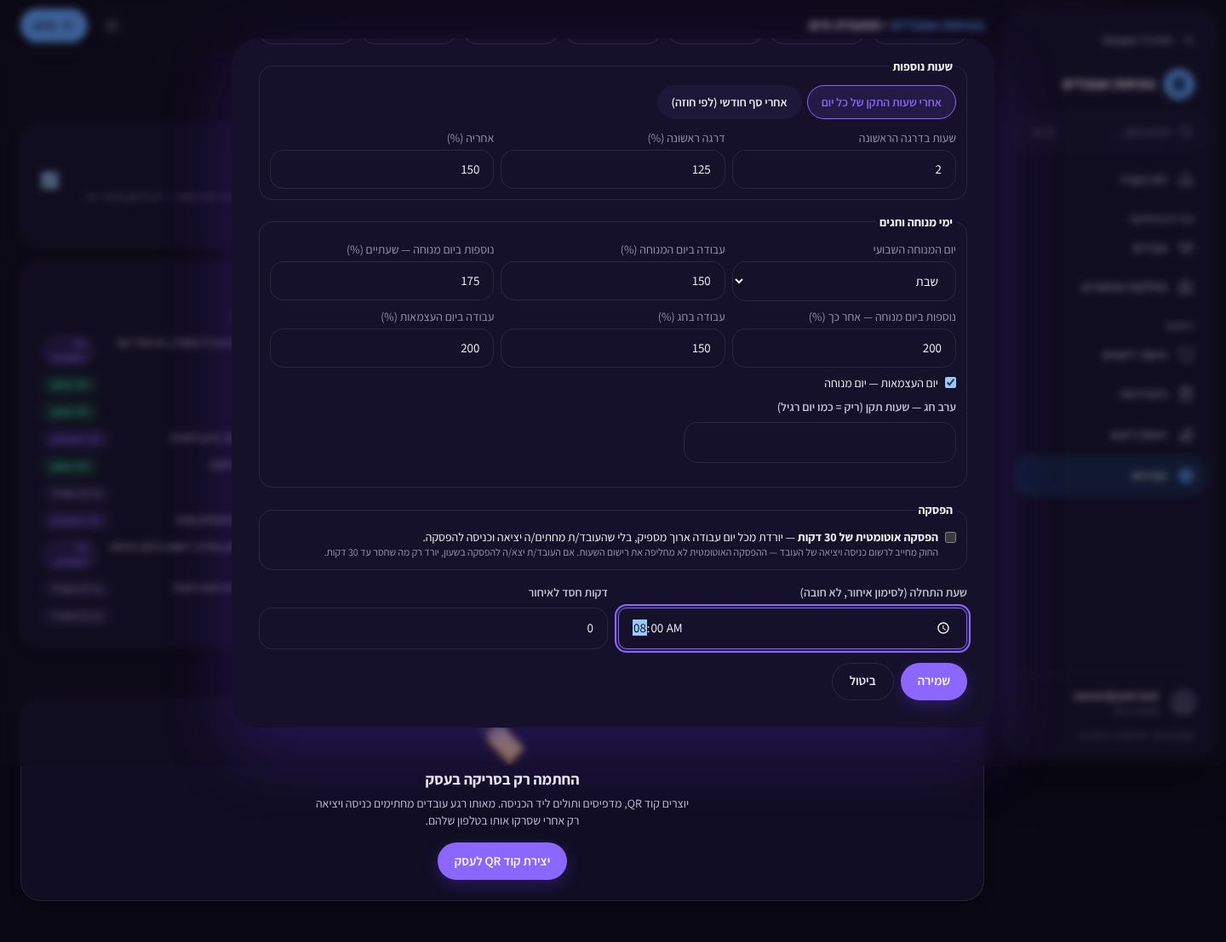
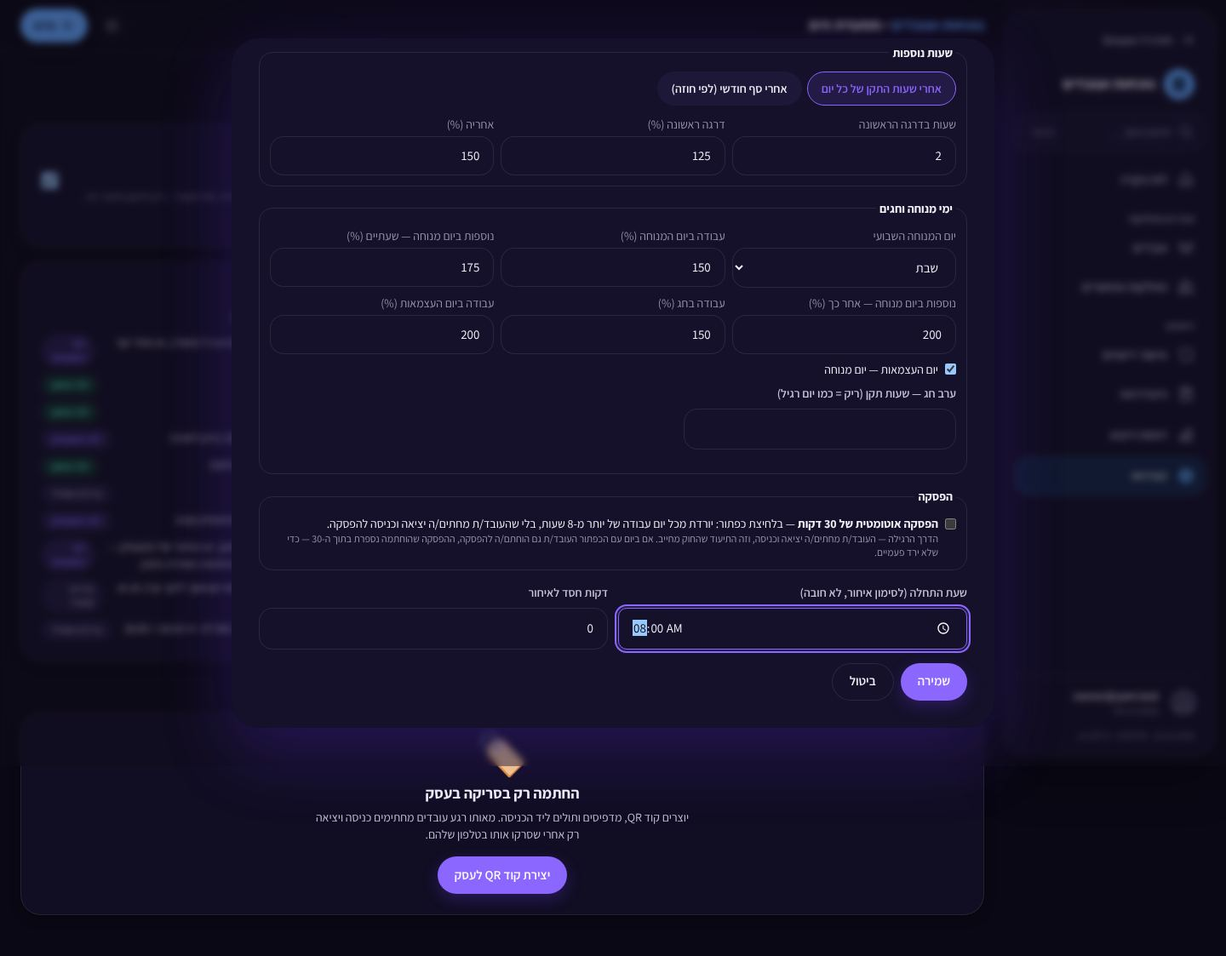
Attendance: exact to the minute, the break button over 8 hours, an aid to the accountant
The owner's answers (23.10.2026):
- Exact to the minute, never rounded: a shift = its clock-out minute less its clock-in
  minute, as the screen shows them (07:58 → 16:03 = 8:05). Files carry H:MM, not decimal
  hours (a decimal hour rounds).
- Breaks: the employee clocks out and in (the record the law requires); or the employer's
  button — 30 minutes off a work day of more than 8 hours. A break the employee also
  clocked counts towards the 30, so nothing is taken off twice.
- A Friday that runs into the eve of a festival or Shabbat stays as it is (the shift is the
  day it started on).
- Every report says it is an aid: the accountant and the employer decide the pay.

Claude-Session: https://claude.ai/code/session_018rYV2Wy84r19GCG9ZHaUyt

diff --git a/dream-promotion/src/features/attendance/exports.ts b/dream-promotion/src/features/attendance/exports.ts
@@ -1,5 +1,5 @@
 import JSZip from 'jszip';
-import { ABSENCE_LABEL, DAY_NAMES, DAY_TYPE_LABEL, METHOD_LABEL, STATUS_LABEL, hm, hoursDec, pctColumns, type AbsenceKind, type DayRow, type MonthReport } from './hours-engine';
+import { ABSENCE_LABEL, DAY_NAMES, DAY_TYPE_LABEL, METHOD_LABEL, STATUS_LABEL, hm, pctColumns, type AbsenceKind, type DayRow, type MonthReport } from './hours-engine';
 
 /**
  * The attendance files (tests/attendance-exports.test.ts): an employee's month as Excel and as PDF (the same rows as the screen —
@@ -16,6 +16,8 @@ const ways = (d: DayRow, side: 'in' | 'out') =>
 const overtime = (d: DayRow) => Object.entries(d.pct).filter(([p]) => +p !== 100).reduce((a, [, m]) => a + m, 0);
 const statusOf = (d: DayRow) => (d.absence ? `${ABSENCE_LABEL[d.absence.kind]}${d.absence.minutes ? ` ${hm(d.absence.minutes)}` : ''}` : STATUS_LABEL[d.status]);
 
+/** what every file says (the owner of the system, 23.10.2026): the system records and arranges; the accountant and the employer decide the pay */
+export const AID_NOTE = 'הדוח מסכם את השעות כפי שנרשמו, לפי הגדרות המסלול של המעסיק — מדויק לדקה, בלי עיגול. החישוב בתלוש — של רואה החשבון והמעסיק.';
 export const DRAFT_NOTE = 'שעות נוספות — טיוטה: המעסיק עוד לא אישר את הגדרות מסלול השעות.';
 type Person = { employee: ExportEmployee; report: MonthReport };
 const pctLabel = (p: number, draft: boolean) => (p === 100 ? 'רגילות' : `${p}%${draft ? ' (טיוטה)' : ''}`);
@@ -37,18 +39,19 @@ export function monthPdfBody(r: MonthReport, e: ExportEmployee, businessName: st
     `${e.name}${e.code ? ` · מספר עובד ${e.code}` : ''}${e.department ? ` · ${e.department}` : ''}`,
     pctColumns([r]).map((p) => `${p}%: ${hm(t.pct[p] ?? 0)}`).join(' · '),
     !r.confirmed ? DRAFT_NOTE : '',
+    AID_NOTE,
   ].filter(Boolean).join(' — ');
   return { title: `דוח נוכחות חודשי — ${e.name}`, subtitle: `${businessName ? `${businessName} · ` : ''}${monthLabel(r.month)}`, columns, rows, total, note };
 }
 
-/** the month for Excel: every column of the reference, hours as numbers (decimal hours) so Excel can add them up */
+/** the month for Excel: every column of the reference; hours as H:MM — exact to the minute (a decimal hour would round) */
 export function monthSheet(r: MonthReport, e: ExportEmployee): (string | number)[][] {
   const cols = pctColumns([r]);
   const head = ['תאריך', 'יום', 'סוג יום', 'שעות תקן', 'כניסה', 'דרך כניסה', 'יציאה', 'דרך יציאה', 'סה״כ יומי', 'מצטבר',
     ...cols.map((p) => pctLabel(p, !r.confirmed)), 'סטטוס'];
   const rows = r.days.map((d) => [
-    dmy(d.date), DAY_NAMES[d.weekday], d.holiday || DAY_TYPE_LABEL[d.type], hoursDec(d.standard), times(d, 'in'), ways(d, 'in'), times(d, 'out'), ways(d, 'out'),
-    hoursDec(d.paid), hoursDec(d.cumulative), ...cols.map((p) => hoursDec(d.pct[p] ?? 0)), statusOf(d),
+    dmy(d.date), DAY_NAMES[d.weekday], d.holiday || DAY_TYPE_LABEL[d.type], hm(d.standard), times(d, 'in'), ways(d, 'in'), times(d, 'out'), ways(d, 'out'),
+    hm(d.paid), hm(d.cumulative), ...cols.map((p) => hm(d.pct[p] ?? 0)), statusOf(d),
   ]);
   const t = r.totals;
   return [
@@ -56,8 +59,10 @@ export function monthSheet(r: MonthReport, e: ExportEmployee): (string | number)
     [],
     head,
     ...rows,
-    ['סה״כ', '', `${t.workDays} ימים`, hoursDec(t.standard), '', '', '', '', hoursDec(t.paid), '', ...cols.map((p) => hoursDec(t.pct[p] ?? 0)), ''],
-    ...(r.confirmed ? [] : [[], [DRAFT_NOTE]]),
+    ['סה״כ', '', `${t.workDays} ימים`, hm(t.standard), '', '', '', '', hm(t.paid), '', ...cols.map((p) => hm(t.pct[p] ?? 0)), ''],
+    [],
+    ...(r.confirmed ? [] : [[DRAFT_NOTE]]),
+    [AID_NOTE],
   ];
 }
 
@@ -68,7 +73,7 @@ export function payrollHeader(cols: number[]) {
     ...ABSENCE_ORDER.map((k) => `ימי ${ABSENCE_LABEL[k]}`), ...ABSENCE_ORDER.map((k) => `שעות ${ABSENCE_LABEL[k]}`), 'ימים חסרים'];
 }
 
-/** CSV (UTF-8 with BOM, so Excel shows Hebrew); a number is a plain number with a point */
+/** CSV (UTF-8 with BOM, so Excel shows Hebrew); hours as H:MM (exact), counts as plain numbers */
 export function csv(rows: (string | number)[][]) {
   const cell = (v: string | number) => (typeof v === 'number' ? String(v) : /[",\r\n]/.test(v) || /^[=+\-@]/.test(v) ? `"${(/^[=+\-@]/.test(v) ? `'${v}` : v).replace(/"/g, '""')}"` : v);
   return '\uFEFF' + rows.map((r) => r.map(cell).join(',')).join('\r\n') + '\r\n';
@@ -82,8 +87,8 @@ export function payrollCsv(list: Person[]): string | null {
   if (unconfirmed(list).length) return null;
   const cols = pctColumns(list.map((x) => x.report));
   const rows = list.map(({ employee: e, report: { totals: t } }) => [
-    e.code, e.name, e.idNumber ?? '', t.workDays, hoursDec(t.pct[100] ?? 0), ...cols.filter((p) => p !== 100).map((p) => hoursDec(t.pct[p] ?? 0)), hoursDec(t.restMinutes),
-    ...ABSENCE_ORDER.map((k) => t.absenceDays[k]), ...ABSENCE_ORDER.map((k) => hoursDec(t.absenceMinutes[k])), t.missingDays,
+    e.code, e.name, e.idNumber ?? '', t.workDays, hm(t.pct[100] ?? 0), ...cols.filter((p) => p !== 100).map((p) => hm(t.pct[p] ?? 0)), hm(t.restMinutes),
+    ...ABSENCE_ORDER.map((k) => t.absenceDays[k]), ...ABSENCE_ORDER.map((k) => hm(t.absenceMinutes[k])), t.missingDays,
   ]);
   return csv([payrollHeader(cols), ...rows]);
 }
@@ -113,7 +118,7 @@ export function payrollPdfBody(list: Person[], month: string, businessName: stri
     const k = ABSENCE_ORDER.filter((x) => t.absenceDays[x] || t.absenceMinutes[x]).map((x) => `${ABSENCE_LABEL[x]} ${t.absenceDays[x]}${t.absenceMinutes[x] ? ` + ${hm(t.absenceMinutes[x])}` : ''}`);
     return k.length ? `${e.name}: ${k.join(', ')}` : '';
   }).filter(Boolean)].join(' ');
-  return { title: `דוח שכר — ${monthLabel(month)}`, subtitle: businessName, columns, rows, total, note: note === 'היעדרויות לפי סוג:' ? '' : note };
+  return { title: `דוח שכר — ${monthLabel(month)}`, subtitle: businessName, columns, rows, total, note: [note === 'היעדרויות לפי סוג:' ? '' : note, AID_NOTE].filter(Boolean).join(' — ') };
 }
 
 /** the month of all employees, for the screen and Excel (it carries the draft note while any rules wait) */
@@ -126,10 +131,12 @@ export function summarySheet(list: Person[], month: string): (string | number)[]
     ['מספר עובד', 'שם', 'מחלקה', 'ימי עבודה', 'סה״כ שעות', 'תקן', ...cols.map((p) => pctLabel(p, false)), 'ימים חסרים', 'יציאות חסרות',
       ...ABSENCE_ORDER.map((k) => `ימי ${ABSENCE_LABEL[k]}`)],
     ...list.map(({ employee: e, report: { totals: t } }) => [
-      e.code, e.name, e.department, t.workDays, hoursDec(t.paid), hoursDec(t.standard), ...cols.map((p) => hoursDec(t.pct[p] ?? 0)), t.missingDays, t.openShifts,
+      e.code, e.name, e.department, t.workDays, hm(t.paid), hm(t.standard), ...cols.map((p) => hm(t.pct[p] ?? 0)), t.missingDays, t.openShifts,
       ...ABSENCE_ORDER.map((k) => t.absenceDays[k]),
     ]),
-    ...(draft ? [[], [`${DRAFT_NOTE} (${unconfirmed(list).join(', ')})`]] : []),
+    [],
+    ...(draft ? [[`${DRAFT_NOTE} (${unconfirmed(list).join(', ')})`]] : []),
+    [AID_NOTE],
   ];
 }
 

diff --git a/dream-promotion/tests/attendance-hours.test.ts b/dream-promotion/tests/attendance-hours.test.ts
@@ -183,12 +183,17 @@ test('attendance: absences — whole days by kind, hours of one day', () => {
   assert.equal(h.totals.absenceMinutes.other, 120); assert.equal(day(h, '2026-09-08').status, 'ok');
 });
 
-test('attendance: the day\'s minutes are rounded once — the month is the sum of the days, "מצטבר" ends on it', () => {
-  // three shifts of 20 minutes 30 seconds: 61.5 minutes → 62 (not 3 × 21 = 63, not 3 × 20 = 60)
+test('attendance: exact to the minute — clock-out minute less clock-in minute, as the screen shows them; never rounded', () => {
   const at = (h: number, m: number, s = 0) => new Date(Date.parse(israelToIso('2026-09-08', '00:00')) + ((h * 60 + m) * 60 + s) * 1000).toISOString();
+  // 07:58:40 → 16:03:10 is shown 07:58 → 16:03 = 8:05 — and counted 8:05 (not 8:04:30 rounded either way)
+  const one = monthReport({ month: '2026-09', entries: [{ id: 'x', clockIn: at(7, 58, 40), clockOut: at(16, 3, 10) }], track: FIVE, now: NOW });
+  assert.equal(day(one, '2026-09-08').worked, 485);
+  assert.deepEqual([day(one, '2026-09-08').shifts[0].inTime, day(one, '2026-09-08').shifts[0].outTime], ['07:58', '16:03']);
+  // three shifts of 08:00:00 → 08:20:30 each: 20 minutes each as shown — 60, the sum of what the report lists
   const entries: EngineEntry[] = [0, 1, 2].map((i) => ({ id: `r${i}`, clockIn: at(8 + i, 0), clockOut: at(8 + i, 20, 30) }));
   const r = monthReport({ month: '2026-09', entries, track: FIVE, now: NOW });
-  assert.equal(day(r, '2026-09-08').worked, 62);
+  assert.equal(day(r, '2026-09-08').worked, 60);
+  assert.equal(day(r, '2026-09-08').shifts.reduce((a, x) => a + x.minutes, 0), day(r, '2026-09-08').worked, 'the day = the sum of its shifts');
   const many = monthReport({ month: '2026-09', track: FIVE, now: NOW, entries: [
     S('a', '2026-09-01', '07:03', '2026-09-01', '18:47'), S('b', '2026-09-03', '22:10', '2026-09-04', '06:05'),
     S('c', '2026-09-05', '09:00', '2026-09-05', '19:30'), S('d', '2026-09-21', '08:00', '2026-09-21', '10:00'),
@@ -219,7 +224,7 @@ test('attendance: the rules — the law\'s and the owner\'s defaults, each with 
   assert.deepEqual([DEFAULT_RULES.tier1Minutes, DEFAULT_RULES.tier1Pct, DEFAULT_RULES.tier2Pct], [120, 125, 150], '125% for two hours, then 150%');
   assert.deepEqual([DEFAULT_RULES.restWeekday, DEFAULT_RULES.restPct, DEFAULT_RULES.independencePct, DEFAULT_RULES.independenceRest], [6, 150, 200, true]);
   assert.equal(DEFAULT_RULES.autoBreakMin, 0, 'the automatic break is the employer\'s button — off');
-  assert.deepEqual(AUTO_BREAK, { minutes: 30, afterMinutes: 360 });
+  assert.deepEqual(AUTO_BREAK, { minutes: 30, afterMinutes: 480 }, 'a work day of more than 8 hours');
   for (const k of ['mode', 'tier1Pct', 'restPct', 'festivalPct', 'independencePct', 'eveMinutes', 'autoBreakMin', 'shiftDay', 'rounding'])
     assert.ok(RULE_NOTES.some((n) => n.key === k), `a note for ${k}`);
   const r = rulesOf({ ot_mode: 'monthly', monthly_minutes: 11160, monthly_tier1_minutes: 600, tier1_pct: 130, rest_weekday: 5, independence_rest: false, eve_minutes: 420 });
@@ -293,7 +298,13 @@ test('attendance: the automatic 30-minute break — the employer\'s button', () 
   const on = withRules(SIX, { autoBreakMin: AUTO_BREAK.minutes, autoBreakAfterMin: AUTO_BREAK.afterMinutes });
   const d = day(monthReport({ month: '2026-09', entries: nine, track: on, now: NOW }), '2026-09-08');
   assert.equal(d.breakTaken, 30); assert.equal(d.paid, 510); assert.deepEqual(d.pct, { 100: 480, 125: 30 });
-  assert.equal(day(monthReport({ month: '2026-09', entries: [S('h', '2026-09-08', '08:00', '2026-09-08', '13:00')], track: on, now: NOW }), '2026-09-08').breakTaken, 0, 'a short day');
+  assert.equal(day(monthReport({ month: '2026-09', entries: [S('h', '2026-09-08', '08:00', '2026-09-08', '16:00')], track: on, now: NOW }), '2026-09-08').breakTaken, 0, 'exactly 8 hours: not more than 8');
+  assert.equal(day(monthReport({ month: '2026-09', entries: [S('h', '2026-09-08', '08:00', '2026-09-08', '16:01')], track: on, now: NOW }), '2026-09-08').breakTaken, 30, '8:01: more than 8');
+  // the employee clocked out for 20 minutes too: 10 more, never 50 in all
+  const both = day(monthReport({ month: '2026-09', entries: [S('p', '2026-09-08', '07:00', '2026-09-08', '12:00'), S('q', '2026-09-08', '12:20', '2026-09-08', '17:00')], track: on, now: NOW }), '2026-09-08');
+  assert.equal(both.worked, 580); assert.equal(both.breakTaken, 10); assert.equal(both.paid, 570);
+  // the button off: the clocked break is the break — nothing more taken off
+  assert.equal(day(monthReport({ month: '2026-09', entries: [S('p', '2026-09-08', '07:00', '2026-09-08', '12:00'), S('q', '2026-09-08', '12:20', '2026-09-08', '17:00')], track: SIX, now: NOW }), '2026-09-08').paid, 580);
 });
 
 test('attendance: a report says whether its rules are the employer\'s confirmed ones', () => {

diff --git a/dream-promotion/tests/attendance-exports.test.ts b/dream-promotion/tests/attendance-exports.test.ts
@@ -4,7 +4,7 @@ import JSZip from 'jszip';
 import { israelToIso } from '../src/lib/il-time';
 import { parseXlsx } from '../src/features/finance/bank';
 import { monthReport, type EngineEntry, type Track } from '../src/features/attendance/hours-engine';
-import { DRAFT_NOTE, csv, monthLabel, monthPdfBody, monthSheet, payrollCsv, payrollHeader, payrollPdfBody, summarySheet, unconfirmed, xlsx } from '../src/features/attendance/exports';
+import { AID_NOTE, DRAFT_NOTE, csv, monthLabel, monthPdfBody, monthSheet, payrollCsv, payrollHeader, payrollPdfBody, summarySheet, unconfirmed, xlsx } from '../src/features/attendance/exports';
 import { reportPdfInput } from '../src/lib/server/report-pdf';
 
 const FIVE: Track = { dayMinutes: [516, 516, 516, 516, 516, 0, 0] };   // not confirmed by the employer yet: overtime is a draft
@@ -34,9 +34,10 @@ test('attendance exports: the month for Excel — hours as numbers, every rate, 
   assert.deepEqual(head.slice(0, 4), ['תאריך', 'יום', 'סוג יום', 'שעות תקן']);
   assert.ok(head.includes('125% (טיוטה)'));
   const first = rows[3];
-  assert.equal(first[8], 11); assert.equal(first[head.indexOf('125% (טיוטה)')], 2); assert.equal(first[head.indexOf('150% (טיוטה)')], 0.4);
-  assert.equal(rows[3 + 30][8], 27, 'the total');
-  assert.equal(rows[rows.length - 1][0], DRAFT_NOTE, 'the employer did not confirm the track yet');
+  assert.equal(first[8], '11:00'); assert.equal(first[head.indexOf('125% (טיוטה)')], '2:00'); assert.equal(first[head.indexOf('150% (טיוטה)')], '0:24', 'H:MM — exact, never a rounded decimal');
+  assert.equal(rows[3 + 30][8], '27:00', 'the total');
+  assert.equal(rows[rows.length - 2][0], DRAFT_NOTE, 'the employer did not confirm the track yet');
+  assert.equal(rows[rows.length - 1][0], AID_NOTE, 'an aid to the accountant — the pay is theirs');
   assert.ok(!monthSheet({ ...report, confirmed: true }, dana).some((r) => r[0] === DRAFT_NOTE));
 });
 
@@ -52,14 +53,14 @@ test('attendance exports: the payroll report — waits for the employer\'s confi
   assert.deepEqual(head.slice(0, 7), ['מספר עובד', 'שם', 'ת.ז', 'ימי עבודה', 'שעות רגילות', '125%', '150%']);
   const v = (k: string) => row[head.indexOf(k)];
   assert.equal(v('מספר עובד'), '101'); assert.equal(v('ימי עבודה'), '3');
-  assert.equal(v('שעות רגילות'), String(Math.round(((516 + 480) / 60) * 100) / 100));
-  assert.equal(v('125%'), '2'); assert.equal(v('150%'), String(Math.round(((24 + 480) / 60) * 100) / 100));
-  assert.equal(v('שעות בימי מנוחה'), '8'); assert.equal(v('ימי חופשה'), '2');
+  assert.equal(v('שעות רגילות'), '16:36');
+  assert.equal(v('125%'), '2:00'); assert.equal(v('150%'), '8:24');
+  assert.equal(v('שעות בימי מנוחה'), '8:00'); assert.equal(v('ימי חופשה'), '2');
   const pdf = payrollPdfBody([{ employee: dana, report: ok }], '2026-09', 'מסעדת הים')!;
   assert.equal(pdf.columns.length, 10);
   assert.deepEqual(pdf.columns.map((c) => c.label), ['מספר', 'שם', 'ימים', 'רגילות', '125%', '150%', '175%', '200%', 'היעדרות', 'חסרים']);
   assert.deepEqual(pdf.rows[0].slice(0, 6), ['101', 'דנה כהן', '3', '16:36', '2:00', '8:24']);
-  assert.match(pdf.note, /דנה כהן: חופשה 2/);
+  assert.match(pdf.note, /דנה כהן: חופשה 2/); assert.ok(pdf.note.includes(AID_NOTE));
   assert.equal(reportPdfInput(pdf).ok, true);
   // an employer's own rate: its own column; more than four rates — the rest together, still 10 columns
   const many = { ...ok, totals: { ...ok.totals, pct: { ...ok.totals.pct, 130: 60, 160: 30 } } };
@@ -75,14 +76,14 @@ test('attendance exports: CSV cells — quotes, and a formula never runs in Exce
 
 test('attendance exports: the summary of all employees, and a real xlsx (read back, right to left)', async () => {
   const s = summarySheet([{ employee: dana, report }], '2026-09');
-  assert.equal(s[0][0], 'סיכום נוכחות — ספטמבר 2026'); assert.equal(s[3][4], 27);
+  assert.equal(s[0][0], 'סיכום נוכחות — ספטמבר 2026'); assert.equal(s[3][4], '27:00');
   const bytes = await xlsx([{ name: 'סיכום', rows: s }, { name: 'דנה/כהן?', rows: monthSheet(report, dana) }]);
   const zip = await JSZip.loadAsync(bytes);
   assert.match(await zip.file('xl/worksheets/sheet1.xml')!.async('string'), /rightToLeft="1"/);
   assert.match(await zip.file('xl/workbook.xml')!.async('string'), /name="דנה כהן"/);
   const grid = await parseXlsx(bytes);
   assert.equal(grid[0][0], 'סיכום נוכחות — ספטמבר 2026');
-  assert.equal(grid.find((r) => r[1] === 'דנה כהן')![4], '27');
+  assert.equal(grid.find((r) => r[1] === 'דנה כהן')![4], '27:00');
   assert.equal(monthLabel('2026-01'), 'ינואר 2026');
 });
 

diff --git a/dream-promotion/src/features/attendance/hours-engine.ts b/dream-promotion/src/features/attendance/hours-engine.ts
@@ -11,7 +11,8 @@ import { PCT_COLUMNS, rulesOf, type ContractRules, type Tier } from './overtime-
  *   - a shift belongs to the day it started on, a night shift is one shift of that day;
  *   - a voided entry is out of every sum (it is shown in the history only); an open one (no clock-out) is "חסר יציאה" — red,
  *     and not paid until it is closed;
- *   - a day's minutes are its shifts' seconds, rounded once (no rounding per shift); the month = the sum of the days, so the
+ *   - exact to the minute (the owner of the system, 23.10.2026: not more, not less): a shift = its clock-out minute less its
+ *     clock-in minute, as the screen shows them (07:58 → 16:03 = 8:05) — never rounded; the month = the sum of the days, so the
  *     report's column "מצטבר" ends on the month's total exactly.
  */
 export type Method = 'link' | 'qr' | 'nfc' | 'gps' | 'manual' | 'request' | 'import';
@@ -103,6 +104,8 @@ export function pctColumns(reports: Pick<MonthReport, 'totals'>[]): number[] {
 }
 
 const MIN = 60_000;
+/** a moment's whole minute (the seconds dropped) — the minute the screen shows */
+const minuteOf = (ms: number) => Math.floor(ms / MIN);
 /** "late" only within this many minutes after the track's start (a flag on the screen — never in the pay) */
 export const LATE_WINDOW_MIN = 240;
 
@@ -218,25 +221,26 @@ export function monthReport(input: MonthInput): MonthReport {
       : type === 'erev' && rules.eveMinutes != null && trackMinutes > 0 ? rules.eveMinutes : trackMinutes;
 
     const list = (byDay.get(date) ?? []).slice().sort((a, b) => a.clockIn.localeCompare(b.clockIn));
-    let seconds = 0, gaps = 0, lastOut: number | null = null;
+    let worked = 0, gaps = 0, lastOut: number | null = null;
     const shifts: ShiftRow[] = list.map((e) => {
       const a = +new Date(e.clockIn), b = e.clockOut ? +new Date(e.clockOut) : null;
-      if (b != null) seconds += Math.max(0, Math.round((b - a) / 1000));
-      if (lastOut != null && a > lastOut) gaps += Math.round((a - lastOut) / MIN);
+      const mins = b != null ? Math.max(0, minuteOf(b) - minuteOf(a)) : 0;
+      worked += mins;
+      if (lastOut != null && a > lastOut) gaps += Math.max(0, minuteOf(a) - minuteOf(lastOut));
       if (b != null) lastOut = b;
       const pi = israelParts(a), po = b != null ? israelParts(b) : null;
       const place = (lat?: number | null, lng?: number | null) => (lat != null && lng != null ? { lat, lng } : null);
       return {
         id: e.id, in: e.clockIn, out: e.clockOut, inTime: pi.time, outTime: po?.time ?? null, outNextDay: Boolean(po && po.date !== pi.date),
-        minutes: b != null ? Math.round((b - a) / MIN) : 0, method: methodOf(e), outMethod: e.clockOut ? ((e.outMethod ?? methodOf(e)) as Method) : null,
+        minutes: mins, method: methodOf(e), outMethod: e.clockOut ? ((e.outMethod ?? methodOf(e)) as Method) : null,
         inPlace: place(e.inLat, e.inLng), outPlace: place(e.outLat, e.outLng), corrected: Boolean(e.replaces) || methodOf(e) === 'manual' || methodOf(e) === 'request',
         open: !e.clockOut,
       };
     });
-    const worked = Math.round(seconds / 60);
     // an unpaid break: taken off a long enough day, less the breaks the employee clocked out for
     const breakMin = rules.autoBreakMin;
-    const breakTaken = breakMin > 0 && worked >= rules.autoBreakAfterMin && worked > 0 ? Math.max(0, Math.min(worked, breakMin - gaps)) : 0;
+    // (the employer's button: a day of MORE than autoBreakAfterMin; a break the employee already clocked out for counts towards it)
+    const breakTaken = breakMin > 0 && worked > rules.autoBreakAfterMin ? Math.max(0, Math.min(worked, breakMin - gaps)) : 0;
     const paid = worked - breakTaken;
 
     let pct: Record<number, number>;
@@ -299,7 +303,7 @@ export function monthReport(input: MonthInput): MonthReport {
 
 /** 7:05 */
 export const hm = (min: number) => `${min < 0 ? '-' : ''}${Math.floor(Math.abs(min) / 60)}:${String(Math.abs(min) % 60).padStart(2, '0')}`;
-/** 7.08 — hours with two decimals, for payroll (rounded once, from the minutes) */
+/** 7.08 — hours with two decimals (rounded: for a chart, never for a file — files carry H:MM, exact) */
 export const hoursDec = (min: number) => Math.round((min / 60) * 100) / 100;
 
 export const DAY_NAMES = ['ראשון', 'שני', 'שלישי', 'רביעי', 'חמישי', 'שישי', 'שבת'];

diff --git a/dream-promotion/src/features/attendance/overtime-rules.ts b/dream-promotion/src/features/attendance/overtime-rules.ts
@@ -51,8 +51,8 @@ export const DEFAULT_RULES: ContractRules = {
   eveMinutes: null, autoBreakMin: 0, autoBreakAfterMin: 0,
 };
 
-/** the automatic break of the employer's button (the owner of the system, 23.10.2026): 30 minutes, off a day of 6 hours or more */
-export const AUTO_BREAK = { minutes: 30, afterMinutes: 360 } as const;
+/** the automatic break of the employer's button (the owner of the system, 23.10.2026): 30 minutes, off a work day of more than 8 hours */
+export const AUTO_BREAK = { minutes: 30, afterMinutes: 480 } as const;
 
 /** a track's row (or the snapshot a closed month keeps) → its rules; a missing value = the default */
 export function rulesOf(r: Record<string, any> | null | undefined): ContractRules {
@@ -81,9 +81,9 @@ export const RULE_NOTES: { key: keyof ContractRules | 'shiftDay' | 'rounding'; t
   { key: 'festivalPct', text: 'חג (לפי לוח השנה העברי, יום אחד בישראל): יום מנוחה, 150%', source: 'law' },
   { key: 'independencePct', text: 'יום העצמאות: יום מנוחה, עבודה בו 200%', source: 'owner' },
   { key: 'eveMinutes', text: 'ערב חג: שעות התקן של המסלול, או מספר שעות אחר שהמעסיק קובע', source: 'employer' },
-  { key: 'autoBreakMin', text: 'הפסקה אוטומטית של 30 דקות (כפתור של המעסיק). החוק מחייב רישום כניסה ויציאה — ההפסקה לא מחליפה אותו', source: 'employer' },
-  { key: 'shiftDay', text: 'משמרת שייכת כולה ליום (ולחודש) שבו התחילה, גם כשהיא חוצה חצות', source: 'owner' },
-  { key: 'rounding', text: 'בלי עיגול: הדקות כפי שנרשמו', source: 'owner' },
+  { key: 'autoBreakMin', text: 'הפסקה: העובד/ת מחתים/ה יציאה וכניסה (תיעוד לפי החוק). או כפתור של המעסיק — 30 דקות ביום עבודה של יותר מ-8 שעות; הפסקה שכבר הוחתמה נספרת בתוכן', source: 'employer' },
+  { key: 'shiftDay', text: 'משמרת שייכת כולה ליום (ולחודש) שבו התחילה — גם שישי שנמשך לתוך ערב חג או שבת נשאר כרגיל', source: 'owner' },
+  { key: 'rounding', text: 'מדויק לדקה, בלי עיגול: יציאה פחות כניסה, כפי שמוצגות (07:58 ← 16:03 = 8:05)', source: 'owner' },
 ];
 
 /** the rates that appear in reports, in order */

diff --git a/dream-promotion/src/features/attendance/Settings.tsx b/dream-promotion/src/features/attendance/Settings.tsx
@@ -205,10 +205,10 @@ function TrackEditor({ value, onClose, onActive }: { value: WorkTrack | null; on
         <label className="flex items-start gap-2 text-sm">
           <input type="checkbox" className="mt-1" checked={r.autoBreakMin > 0} aria-label="הפסקה אוטומטית של 30 דקות"
             onChange={(e) => setR({ ...r, autoBreakMin: e.target.checked ? AUTO_BREAK.minutes : 0 })} />
-          <span><strong>הפסקה אוטומטית של 30 דקות</strong> — יורדת מכל יום עבודה ארוך מספיק, בלי שהעובד/ת מחתים/ה יציאה וכניסה להפסקה.
-            <span className="block text-xs text-muted">החוק מחייב לרשום כניסה ויציאה של העובד — ההפסקה האוטומטית לא מחליפה את רישום השעות. אם העובד/ת יצא/ה להפסקה בשעון, יורד רק מה שחסר עד 30 דקות.</span></span>
+          <span><strong>הפסקה אוטומטית של 30 דקות</strong> — בלחיצת כפתור: יורדת מכל יום עבודה של יותר מ-8 שעות, בלי שהעובד/ת מחתים/ה יציאה וכניסה להפסקה.
+            <span className="block text-xs text-muted">הדרך הרגילה — העובד/ת מחתים/ה יציאה וכניסה, וזה התיעוד שהחוק מחייב. אם ביום עם הכפתור העובד/ת גם הוחתם/ה להפסקה, ההפסקה שהוחתמה נספרת בתוך ה-30 — כדי שלא ירד פעמיים.</span></span>
         </label>
-        {r.autoBreakMin > 0 && <div className="mt-2 max-w-xs"><Field label="ביום של לפחות (שעות)"><Input value={text.breakAfter} inputMode="decimal" onChange={(e) => setText({ ...text, breakAfter: e.target.value })} /></Field></div>}
+        {r.autoBreakMin > 0 && <div className="mt-2 max-w-xs"><Field label="ביום עבודה של יותר מ- (שעות)"><Input value={text.breakAfter} inputMode="decimal" onChange={(e) => setText({ ...text, breakAfter: e.target.value })} /></Field></div>}
       </fieldset>
 
       <div className="grid gap-x-3 sm:grid-cols-2">

diff --git a/dream-promotion/tests/e2e/attendance.e2e.ts b/dream-promotion/tests/e2e/attendance.e2e.ts
@@ -404,12 +404,12 @@ async function main() {
       const grid = await parseXlsx(new Uint8Array(readFileSync(await x.path())));
       const head = grid.find((r) => r[0] === 'תאריך')!;
       const total = grid.find((r) => r[0] === 'סה״כ')!;
-      assert.equal(total[head.indexOf('סה״כ יומי')], String(10 + 8 + 6), 'the month: 10 + 8 + 6 hours');
+      assert.equal(total[head.indexOf('סה״כ יומי')], '24:00', 'the month: 10 + 8 + 6 hours, exact');
       await goto('/attendance/reports');
       await page.getByRole('link', { name: 'דנה כהן' }).first().waitFor({ timeout: 120_000 });
       const [s] = await Promise.all([page.waitForEvent('download'), page.getByRole('button', { name: 'ייצוא לאקסל' }).click()]);
       const sum = await parseXlsx(new Uint8Array(readFileSync(await s.path())));
-      assert.equal(sum.find((r) => r[1] === 'דנה כהן')![4], '24');
+      assert.equal(sum.find((r) => r[1] === 'דנה כהן')![4], '24:00');
       const [c] = await Promise.all([page.waitForEvent('download'), page.getByRole('button', { name: 'קובץ לתוכנת שכר (CSV)' }).click()]);
       assert.match(readFileSync(await c.path(), 'utf8'), /^\uFEFFמספר עובד,שם/);
     });

diff --git a/dream-promotion/docs/ATTENDANCE_PLAN_HE.md b/dream-promotion/docs/ATTENDANCE_PLAN_HE.md
@@ -70,15 +70,16 @@
   - הלקוח הראשון: 6 ימים קבועים בשבוע (המסלול "6 ימים (א׳–ו׳)").
   - יום המנוחה השבועי (שבת): 150%. חג: 150%. יום העצמאות: יום מנוחה, 200%. שעות נוספות ביום מנוחה: 175% / 200% — ניתנים לשינוי.
   - ערב חג: שעות התקן של המסלול, או מספר שהמעסיק קובע.
-  - הפסקה: כפתור "הפסקה אוטומטית של 30 דקות" (כבוי). החוק מחייב רישום כניסה ויציאה — ההפסקה לא מחליפה אותו.
+  - הפסקה: הדרך הרגילה — העובד מחתים יציאה וכניסה (התיעוד שהחוק מחייב). או כפתור של המעסיק: 30 דקות ביום עבודה של יותר מ-8 שעות. ביום שבו גם הוחתמה הפסקה — היא נספרת בתוך ה-30 (לא יורד פעמיים).
+- **מדויק לדקה, בלי עיגול:** משמרת = דקת היציאה פחות דקת הכניסה, כפי שמוצגות (07:58 ← 16:03 = 8:05). בקבצים השעות ב-H:MM (שעה עשרונית הייתה מעגלת).
+- **שישי שנמשך לתוך ערב חג או שבת — נשאר כרגיל:** המשמרת כולה ביום שבו התחילה, בלי פיצול בחצות.
+- **המערכת עוזרת, לא מחשבת תלוש:** היא מסדרת את מה שנרשם לפי הכללים, ומראה מה חסר או שגוי בחודש. החישוב בתלוש — של רואה החשבון ובעל העסק. כל דוח אומר את זה.
 - **המעסיק מאשר את הגדרות המסלול** (`rules_confirmed_at`, מי ומתי). שינוי של כלל מבטל את האישור. עד האישור — השעות הנוספות "טיוטה", דוח השכר לא יוצא, והחודש לא נסגר.
 - **חודש סגור שומר את הגדרות המסלול שהיו בו** (`attendance_months.rules_snapshot`). שינוי במסלול אחר כך לא משנה חודש סגור.
 - **השעות יוצאות ב-PDF בלבד** (ברירת מחדל; `timeclock_settings.exports_pdf_only`): דוח חודשי לעובד ודוח שכר — PDF. אקסל וקובץ CSV — רק אם המעסיק מתיר. שינוי שעות — רק דרך תיקון מתועד (מי, מתי, למה).
 
 ## החלטות שעוד פתוחות (לא מנחשים)
 
-1. **משמרת שחוצה חצות לתוך שבת או חג:** עכשיו — כולה ביום שבו התחילה (משמרת של שישי 20:00–04:00 = יום שישי). לפצל בחצות?
-2. **עיגול:** עכשיו — בלי עיגול. השאלה: עובד שנכנס ב-07:58 ויצא ב-16:03 — נרשם 8:05 בדיוק (כך היום), או שמעגלים (למשל לרבע שעה)?
-3. בסף חודשי — כמה מהשעות הנוספות ב-125%: נקבע לכל מסלול בחוזה (שדה חובה במסלול חודשי).
-4. תגי NFC (שלב 2): NTAG213 או NTAG 424 DNA.
-5. `employees.hourly_rate` הישן נשאר בטבלה שכל הצוות קורא — השכר החדש ב-`employee_private`. לנקות את הישן (שינוי נתונים) — רק באישור.
+1. בסף חודשי — כמה מהשעות הנוספות ב-125%: נקבע לכל מסלול בחוזה (שדה חובה במסלול חודשי).
+2. תגי NFC (שלב 2): NTAG213 או NTAG 424 DNA.
+3. `employees.hourly_rate` הישן נשאר בטבלה שכל הצוות קורא — השכר החדש ב-`employee_private`. לנקות את הישן (שינוי נתונים) — רק באישור.

diff --git a/dream-promotion/STATUS.md b/dream-promotion/STATUS.md
@@ -9,7 +9,7 @@
 
 **5800 `attendance_core` (2.107.0) — מוכנה בלבד. לא הורצה על המסד החי (מחכה לאישור; בעל המערכת מריץ ב-SQL Editor).** רצה רק אחרי 1100 / 1300 (השעון), 3000 (הרשאות) ו-3200 (`can_write`) — בלעדיהן היא עוצרת בהתחלה ולא משנה כלום.
 - **מה היא מוסיפה (תוספות בלבד):** `businesses.modules` (ברירת מחדל: Dream + נוכחות — לאף עסק קיים לא משתנה כלום), `business_members.attendance_role`, הטבלאות `departments`, `work_tracks`, `employee_private`, `attendance_approvers`, `time_requests`, `absences`, `attendance_months`, `attendance_month_events`, `time_entry_events`, עמודות חדשות ל-`employees` ול-`time_entries`, הדלי הפרטי `attendance-files`, והפונקציות `att_*`.
-- **כללי השעות הנוספות (החלטת בעל המערכת, 23.10.2026):** לכל מסלול הסכם — סף יומי (8:00 / 8:36 / 8:40 / כל מספר) או חודשי (למשל 186), 125% לשעתיים ואז 150%, יום מנוחה 150%, חג 150%, יום העצמאות 200%, ערב חג והפסקה אוטומטית של 30 דקות — הכול נקבע ע״י המעסיק, והמעסיק מאשר. חודש סגור שומר את ההגדרות שהיו בו. השעות יוצאות ב-PDF בלבד כברירת מחדל.
+- **כללי השעות הנוספות (החלטת בעל המערכת, 23.10.2026):** לכל מסלול הסכם — סף יומי (8:00 / 8:36 / 8:40 / כל מספר) או חודשי (למשל 186), 125% לשעתיים ואז 150%, יום מנוחה 150%, חג 150%, יום העצמאות 200%, ערב חג והפסקה אוטומטית של 30 דקות (ביום של יותר מ-8 שעות; הפסקה שהוחתמה נספרת בתוכה) — הכול נקבע ע״י המעסיק, והמעסיק מאשר. השעות מדויקות לדקה, בלי עיגול; המערכת עוזרת לרואה החשבון — לא מפיקה תלוש. חודש סגור שומר את ההגדרות שהיו בו. השעות יוצאות ב-PDF בלבד כברירת מחדל.
 - **מה היא אוכפת:** אין מחיקה בשום טבלת נוכחות (גם לא בשרשרת); רישום שעות לא נכתב מחדש — רק יציאה (פעם אחת) או ביטול עם סיבה, ותיקון = ביטול + רישום חדש; כל שינוי בהיסטוריה; חודש סגור נעול; מהדפדפן — רק דרך הפונקציות.
 - **שעון העובד:** ממשיך בדיוק כמו קודם (כניסה ויציאה דרך השרת). `attendance-compare.sh`: אותן שורות, אותה תצוגה, ואותה שגיאה בכניסה כפולה (23505) לפני ואחרי.
 - **שימו לב:** אחרי ההרצה המסך הישן של השעון (שמחק ועדכן משמרות ישירות) כבר לא מוצג — במקומו המודול החדש. מחיקת משתמש באפליקציה שיצר עובדים / משמרות תיכשל (שמירה של 7 שנים).

diff --git a/dream-promotion/CLAUDE.md b/dream-promotion/CLAUDE.md
@@ -117,7 +117,7 @@
 - נוכחות ועובדים (מ-2.107.0, מיגרציה 5800 — `docs/ATTENDANCE_PLAN_HE.md`, המשימה ב-`docs/ATTENDANCE MODULE TASK HE.md`):
   - שום רישום שעות לא נמחק ולא נכתב מחדש: רק יציאה (פעם אחת) או ביטול עם סיבה. תיקון = `att_entry_fix` — הישן מבוטל ונשאר, וחדש עם `replaces`. ההיסטוריה (`time_entry_events`) — רק בטריגר. מהדפדפן — רק דרך `att_*` (סיבה חובה); השעון של העובד — כמו קודם, מהשרת.
   - חודש סגור נעול במסד (`att_month_closed`) לכל רישום, בקשה והיעדרות של העובד בחודש. פתיחה מחדש — `att_month_mark(…, 'reopened', סיבה)`, מנהל בלבד.
-  - כל חישוב שעות — רק `monthReport` ב-`features/attendance/hours-engine.ts` (משמרת שייכת ליום שבו התחילה; הדקות של היום מעוגלות פעם אחת). שינוי — עם בדיקה ב-`attendance-hours.test.ts`.
+  - כל חישוב שעות — רק `monthReport` ב-`features/attendance/hours-engine.ts`: מדויק לדקה, בלי עיגול (דקת היציאה פחות דקת הכניסה, כפי שמוצגות — החלטת בעל המערכת, 23.10.2026); משמרת שייכת כולה ליום שבו התחילה (גם שישי שנמשך לערב חג או שבת). בקבצים — H:MM, אף פעם שעה עשרונית. המערכת עוזרת לרואה החשבון ולמעסיק (`AID_NOTE`) — לא מפיקה תלוש. שינוי — עם בדיקה ב-`attendance-hours.test.ts`.
   - כללי השעות הנוספות — של כל מסלול הסכם, שהמעסיק מגדיר (החלטת בעל המערכת, 23.10.2026): העמודות של `work_tracks` במסד ו-`rulesOf` ב-`overtime-rules.ts` — משנים את שניהם יחד. ברירות המחדל — לפי החוק (125% לשעתיים, ואז 150%; מנוחה 150%; יום העצמאות 200%). מסלול שהמעסיק לא אישר (`rules_confirmed_at`) — "טיוטה", בלי דוח שכר ובלי סגירת חודש; שינוי של כלל מבטל את האישור (`b_att_track_rules`). חודש סגור מחושב רק לפי `rules_snapshot` שלו (`trackFor`). אחוז שהמעסיק הגדיר מקבל עמודה משלו (`pctColumns`) — לא בונים רשימת אחוזים קבועה.
   - ייצוא שעות: PDF בלבד כברירת מחדל (`exports_pdf_only`). אקסל ו-CSV של שעות — רק כשהמעסיק מתיר (`att.pdfOnly`).
   - הרשאות: `att_role()` במסד = `attRoleOf` בשרת (`lib/server/attendance.ts`) — משנים יחד. ת״ז ושכר רק ב-`employee_private` (מנהל ושכר). המסכים רק מסתירים (`people.ts`).
